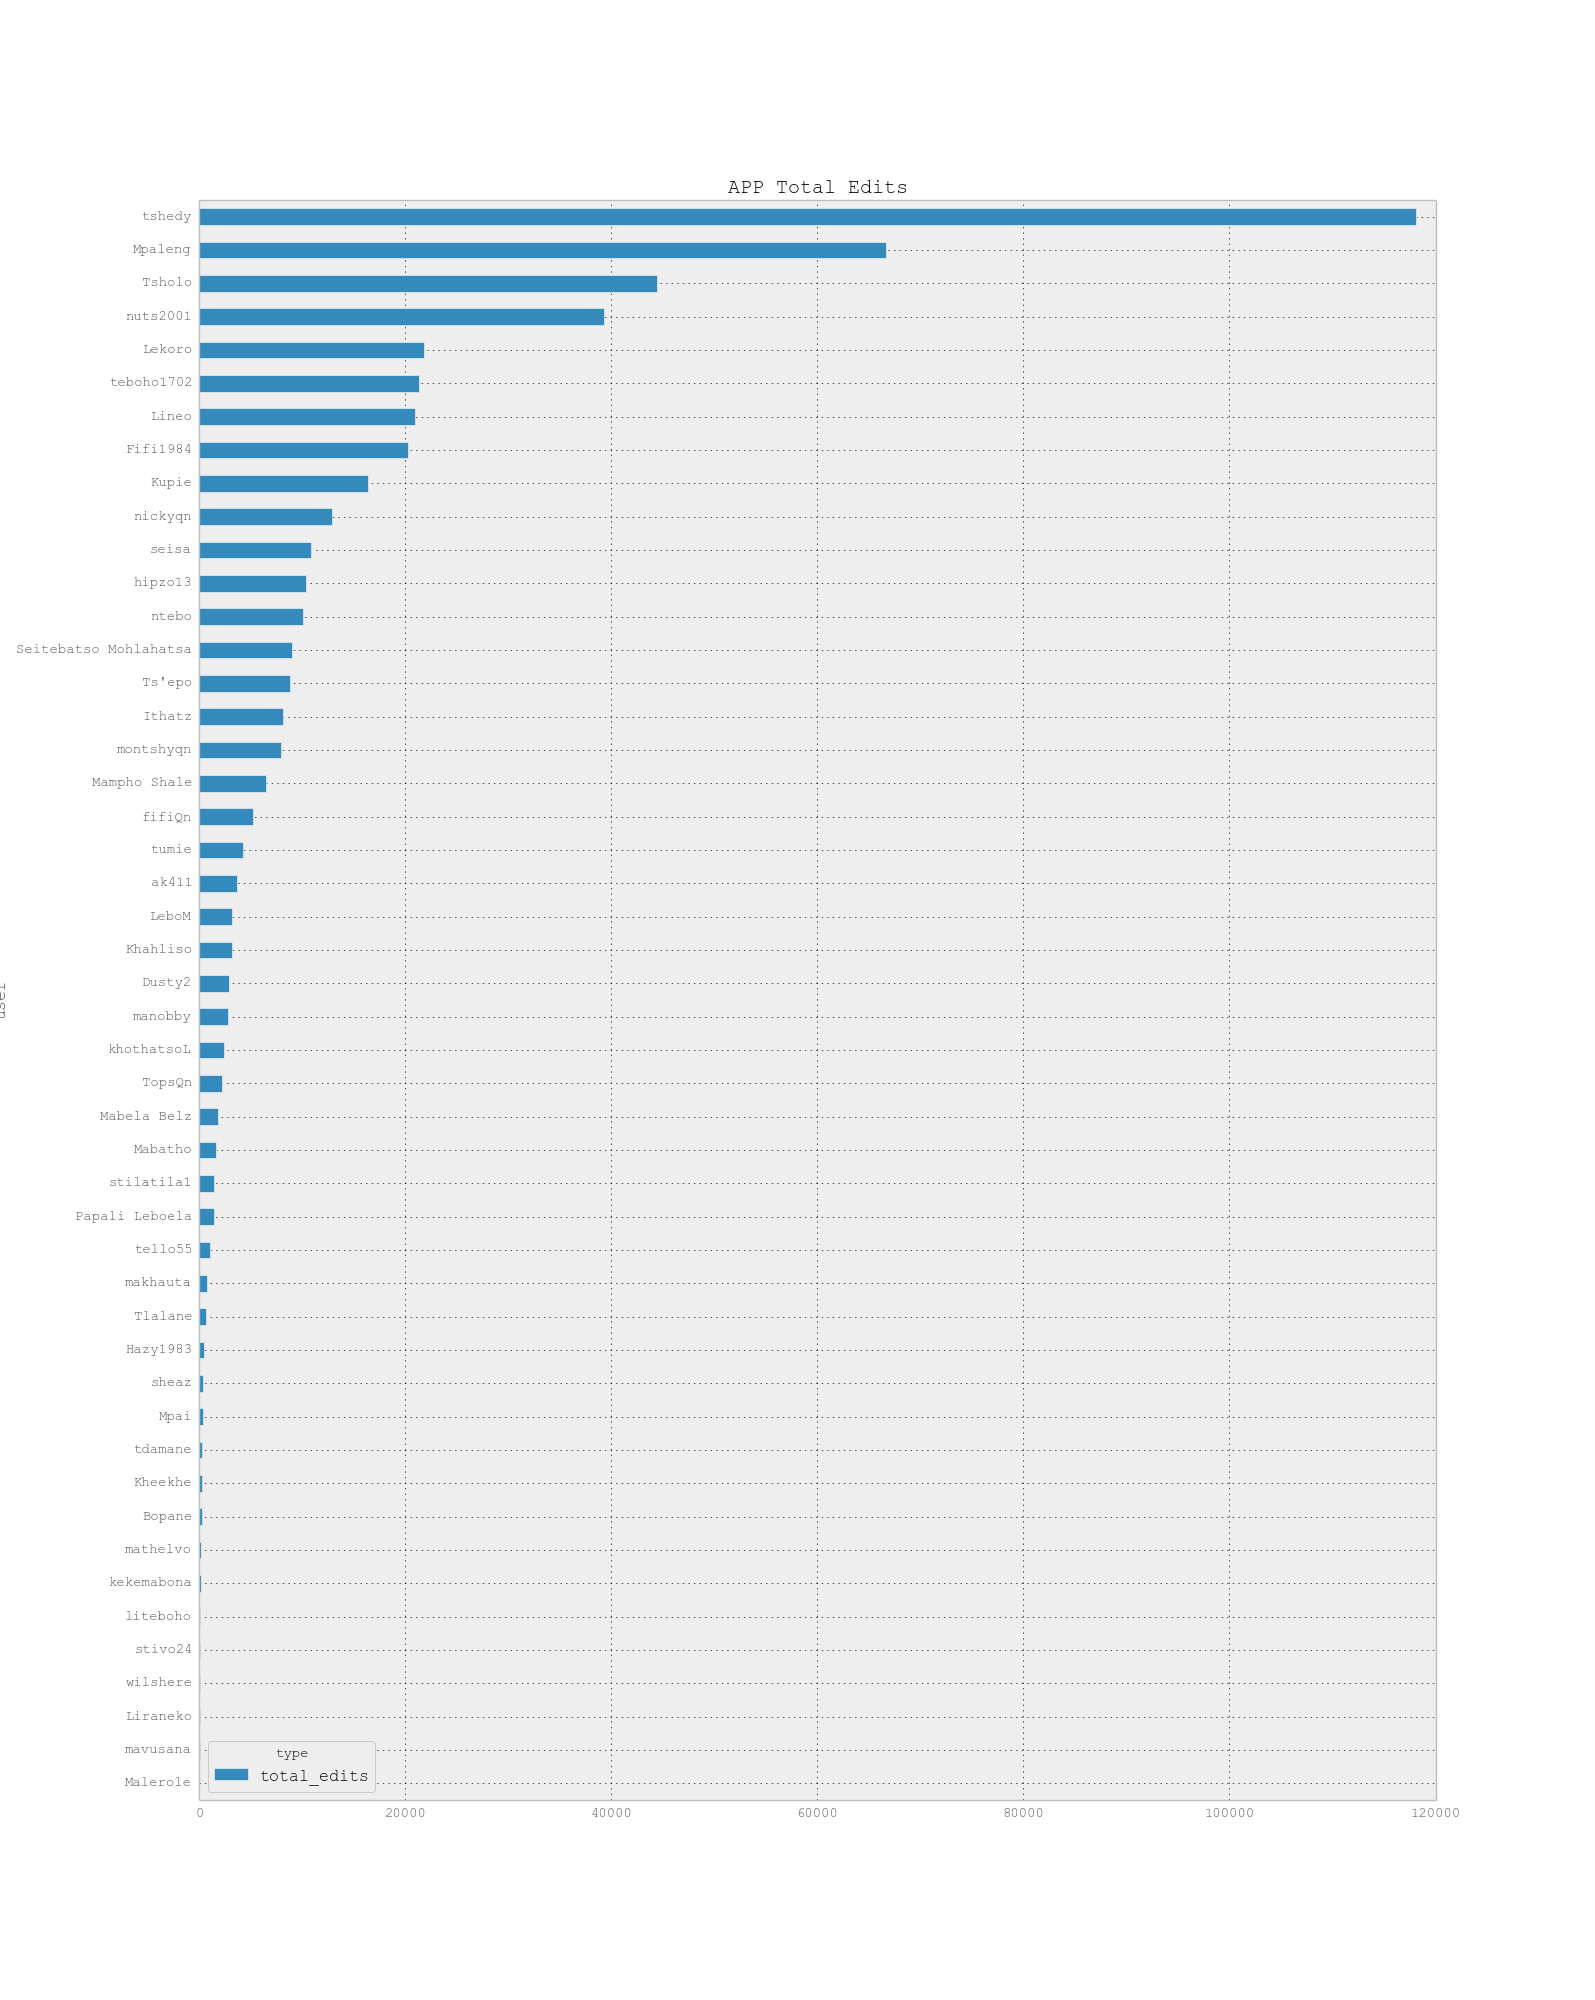
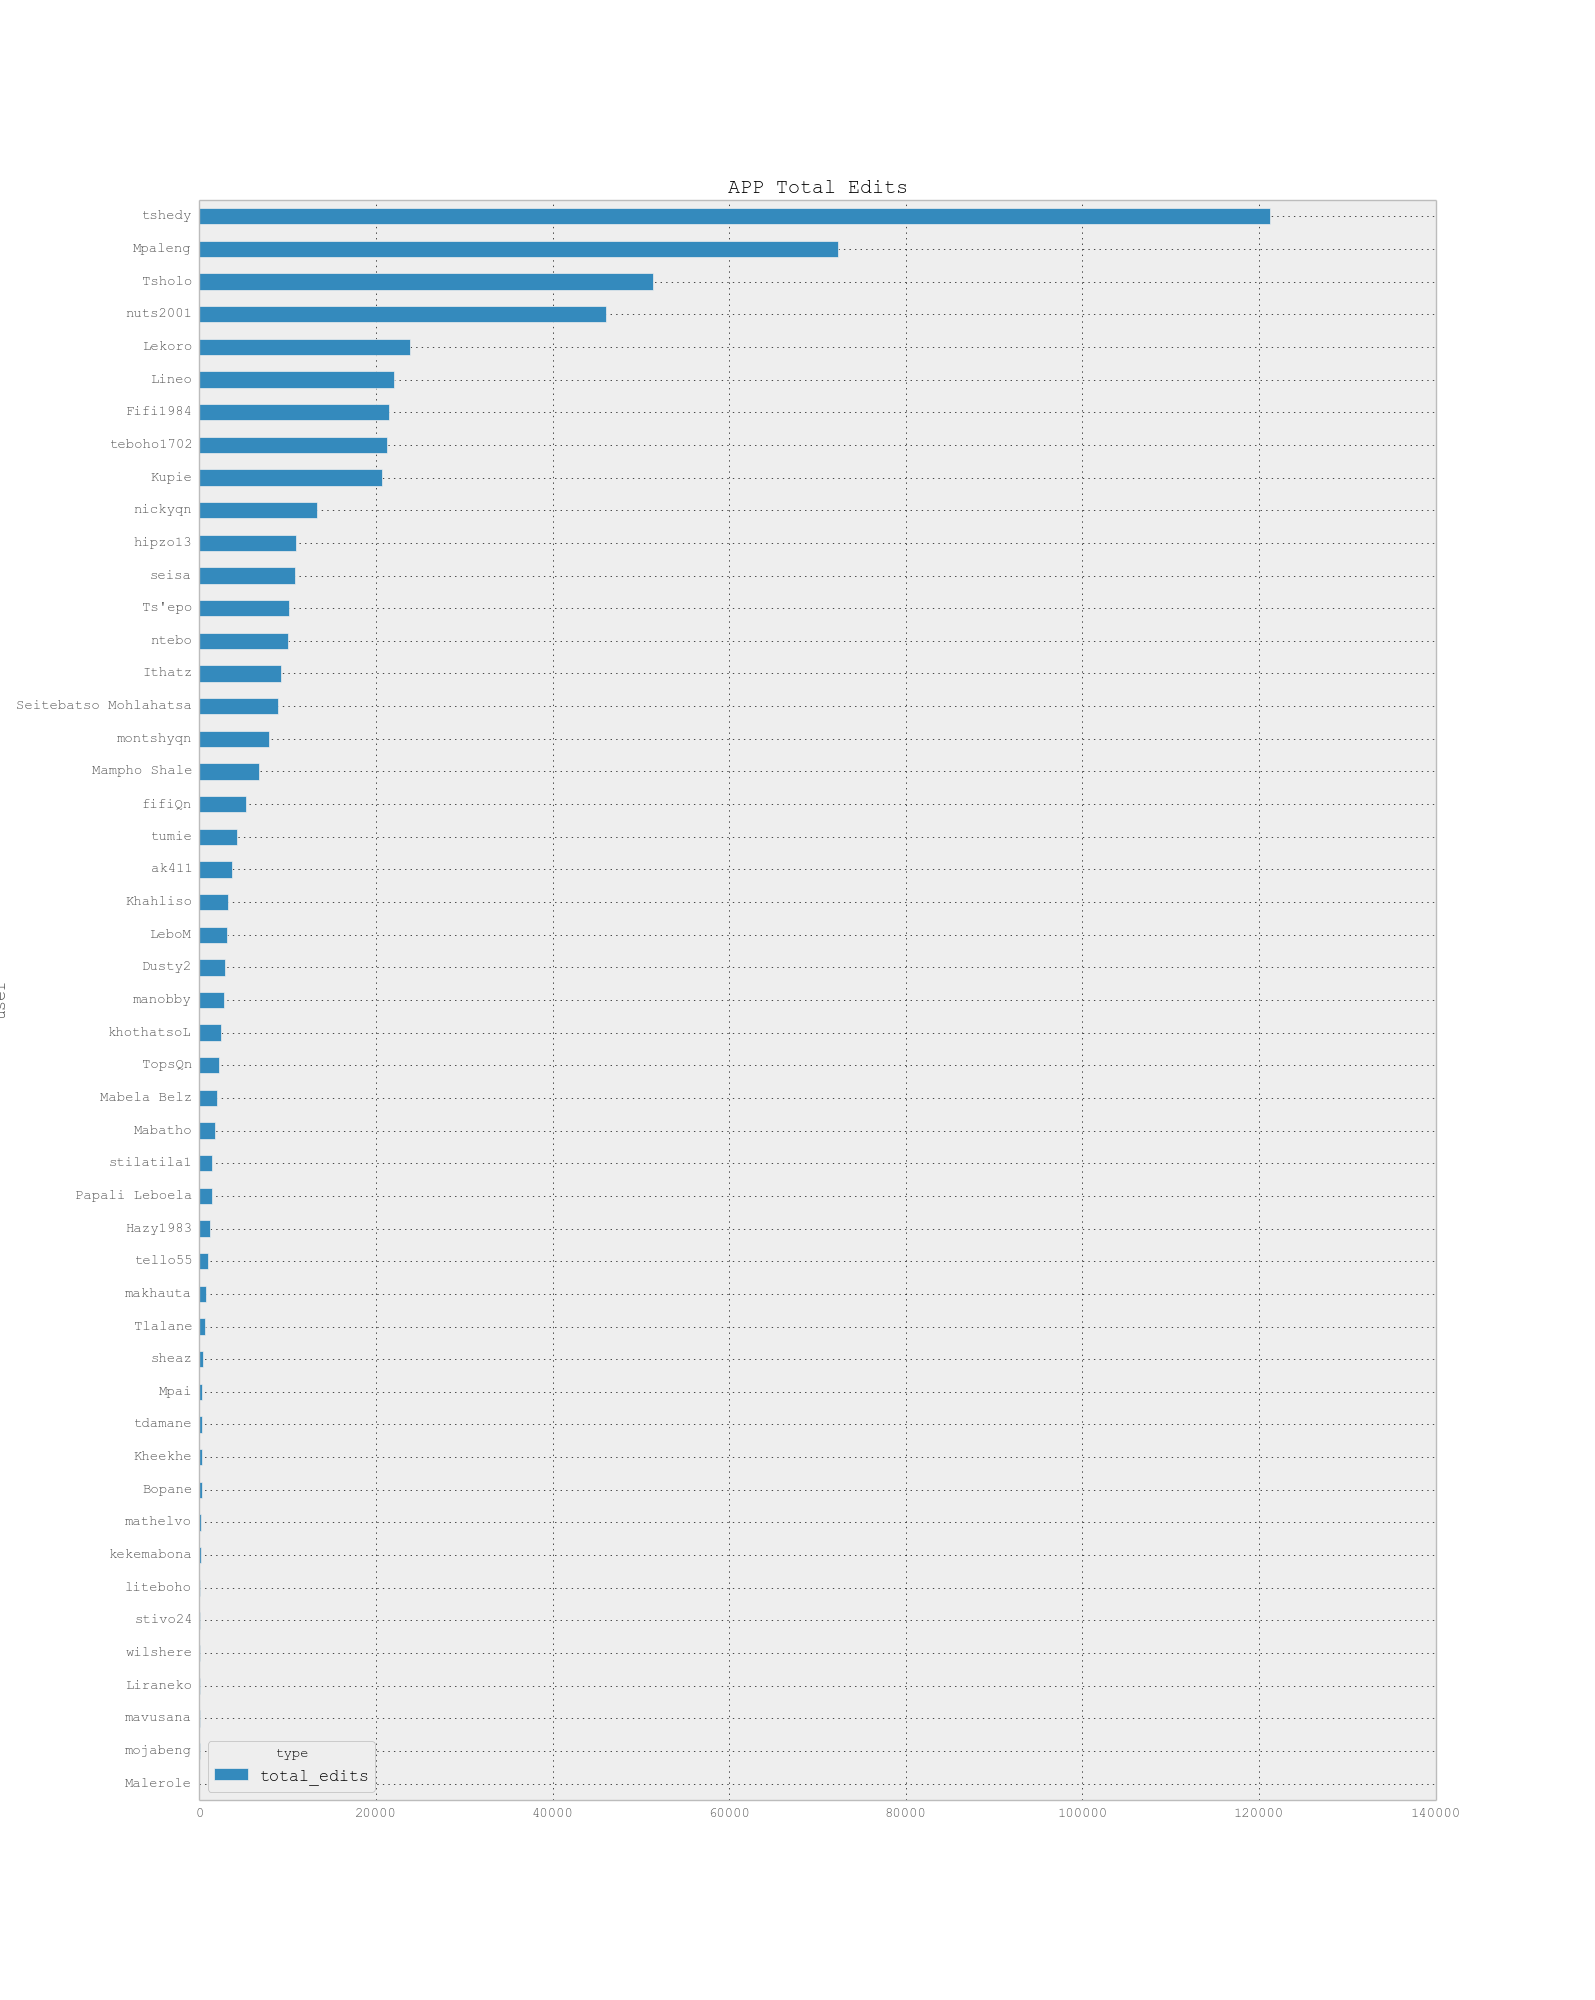
updated stats 07-08-15

Changed region(s): [[0.0614, 0.124, 0.4301, 0.868], [0.7987, 0.093, 0.8909, 0.124], [0.5223, 0.093, 0.553, 0.155]]

diff --git a/index.html b/index.html
@@ -73,73 +73,80 @@
   <tbody>
     <tr>
       <td>tshedy</td>
-      <td>109087</td>
+      <td>112265</td>
       <td>268</td>
-      <td>8745</td>
-      <td>118100</td>
+      <td>8759</td>
+      <td>121292</td>
     </tr>
     <tr>
       <td>Mpaleng</td>
-      <td>53460</td>
-      <td>209</td>
-      <td>12985</td>
-      <td>66654</td>
+      <td>58887</td>
+      <td>220</td>
+      <td>13247</td>
+      <td>72354</td>
     </tr>
     <tr>
       <td>Tsholo</td>
-      <td>44054</td>
-      <td>236</td>
-      <td>152</td>
-      <td>44442</td>
+      <td>50422</td>
+      <td>819</td>
+      <td>164</td>
+      <td>51405</td>
     </tr>
     <tr>
       <td>nuts2001</td>
-      <td>36785</td>
+      <td>43469</td>
       <td>190</td>
-      <td>2345</td>
-      <td>39320</td>
+      <td>2420</td>
+      <td>46079</td>
     </tr>
     <tr>
       <td>Lekoro</td>
-      <td>20835</td>
-      <td>43</td>
-      <td>901</td>
-      <td>21779</td>
+      <td>22599</td>
+      <td>49</td>
+      <td>1194</td>
+      <td>23842</td>
+    </tr>
+    <tr>
+      <td>Lineo</td>
+      <td>19879</td>
+      <td>632</td>
+      <td>1564</td>
+      <td>22075</td>
+    </tr>
+    <tr>
+      <td>Fifi1984</td>
+      <td>18817</td>
+      <td>168</td>
+      <td>2454</td>
+      <td>21439</td>
     </tr>
     <tr>
       <td>teboho1702</td>
       <td>19279</td>
-      <td>276</td>
+      <td>283</td>
       <td>1736</td>
-      <td>21291</td>
-    </tr>
-    <tr>
-      <td>Lineo</td>
-      <td>18928</td>
-      <td>467</td>
-      <td>1564</td>
-      <td>20959</td>
-    </tr>
-    <tr>
-      <td>Fifi1984</td>
-      <td>17687</td>
-      <td>153</td>
-      <td>2452</td>
-      <td>20292</td>
+      <td>21298</td>
     </tr>
     <tr>
       <td>Kupie</td>
-      <td>10749</td>
+      <td>13842</td>
       <td>7</td>
-      <td>5569</td>
-      <td>16325</td>
+      <td>6796</td>
+      <td>20645</td>
     </tr>
     <tr>
       <td>nickyqn</td>
-      <td>12671</td>
-      <td>179</td>
+      <td>13181</td>
+      <td>180</td>
       <td>0</td>
-      <td>12850</td>
+      <td>13361</td>
+    </tr>
+    <tr>
+      <td>hipzo13</td>
+      <td>10157</td>
+      <td>146</td>
+      <td>664</td>
+      <td>10967</td>
     </tr>
     <tr>
       <td>seisa</td>
@@ -149,18 +156,25 @@
       <td>10875</td>
     </tr>
     <tr>
-      <td>hipzo13</td>
-      <td>9524</td>
-      <td>125</td>
-      <td>654</td>
-      <td>10303</td>
+      <td>Ts'epo</td>
+      <td>10000</td>
+      <td>62</td>
+      <td>36</td>
+      <td>10098</td>
     </tr>
     <tr>
       <td>ntebo</td>
       <td>9821</td>
-      <td>230</td>
+      <td>246</td>
       <td>4</td>
-      <td>10055</td>
+      <td>10071</td>
+    </tr>
+    <tr>
+      <td>Ithatz</td>
+      <td>8341</td>
+      <td>162</td>
+      <td>725</td>
+      <td>9228</td>
     </tr>
     <tr>
       <td>Seitebatso Mohlahatsa</td>
@@ -168,20 +182,6 @@
       <td>224</td>
       <td>157</td>
       <td>8951</td>
-    </tr>
-    <tr>
-      <td>Ts'epo</td>
-      <td>8696</td>
-      <td>62</td>
-      <td>34</td>
-      <td>8792</td>
-    </tr>
-    <tr>
-      <td>Ithatz</td>
-      <td>7271</td>
-      <td>148</td>
-      <td>717</td>
-      <td>8136</td>
     </tr>
     <tr>
       <td>montshyqn</td>
@@ -192,17 +192,17 @@
     </tr>
     <tr>
       <td>Mampho Shale</td>
-      <td>5836</td>
-      <td>195</td>
+      <td>6065</td>
+      <td>203</td>
       <td>460</td>
-      <td>6491</td>
+      <td>6728</td>
     </tr>
     <tr>
       <td>fifiQn</td>
       <td>5201</td>
-      <td>34</td>
+      <td>40</td>
       <td>14</td>
-      <td>5249</td>
+      <td>5255</td>
     </tr>
     <tr>
       <td>tumie</td>
@@ -219,18 +219,18 @@
       <td>3649</td>
     </tr>
     <tr>
+      <td>Khahliso</td>
+      <td>2776</td>
+      <td>62</td>
+      <td>357</td>
+      <td>3195</td>
+    </tr>
+    <tr>
       <td>LeboM</td>
       <td>2908</td>
       <td>16</td>
       <td>251</td>
       <td>3175</td>
-    </tr>
-    <tr>
-      <td>Khahliso</td>
-      <td>2776</td>
-      <td>24</td>
-      <td>357</td>
-      <td>3157</td>
     </tr>
     <tr>
       <td>Dusty2</td>
@@ -242,9 +242,9 @@
     <tr>
       <td>manobby</td>
       <td>2763</td>
-      <td>8</td>
+      <td>20</td>
       <td>13</td>
-      <td>2784</td>
+      <td>2796</td>
     </tr>
     <tr>
       <td>khothatsoL</td>
@@ -262,17 +262,17 @@
     </tr>
     <tr>
       <td>Mabela Belz</td>
-      <td>1775</td>
+      <td>1956</td>
       <td>0</td>
       <td>56</td>
-      <td>1831</td>
+      <td>2012</td>
     </tr>
     <tr>
       <td>Mabatho</td>
-      <td>1577</td>
+      <td>1794</td>
       <td>25</td>
-      <td>0</td>
-      <td>1602</td>
+      <td>1</td>
+      <td>1820</td>
     </tr>
     <tr>
       <td>stilatila1</td>
@@ -289,6 +289,13 @@
       <td>1395</td>
     </tr>
     <tr>
+      <td>Hazy1983</td>
+      <td>1108</td>
+      <td>27</td>
+      <td>14</td>
+      <td>1149</td>
+    </tr>
+    <tr>
       <td>tello55</td>
       <td>1017</td>
       <td>5</td>
@@ -298,9 +305,9 @@
     <tr>
       <td>makhauta</td>
       <td>700</td>
-      <td>23</td>
+      <td>55</td>
       <td>4</td>
-      <td>727</td>
+      <td>759</td>
     </tr>
     <tr>
       <td>Tlalane</td>
@@ -308,13 +315,6 @@
       <td>7</td>
       <td>0</td>
       <td>632</td>
-    </tr>
-    <tr>
-      <td>Hazy1983</td>
-      <td>401</td>
-      <td>27</td>
-      <td>14</td>
-      <td>442</td>
     </tr>
     <tr>
       <td>sheaz</td>
@@ -399,6 +399,13 @@
       <td>10</td>
       <td>0</td>
       <td>31</td>
+    </tr>
+    <tr>
+      <td>mojabeng</td>
+      <td>30</td>
+      <td>0</td>
+      <td>0</td>
+      <td>30</td>
     </tr>
     <tr>
       <td>Malerole</td>
